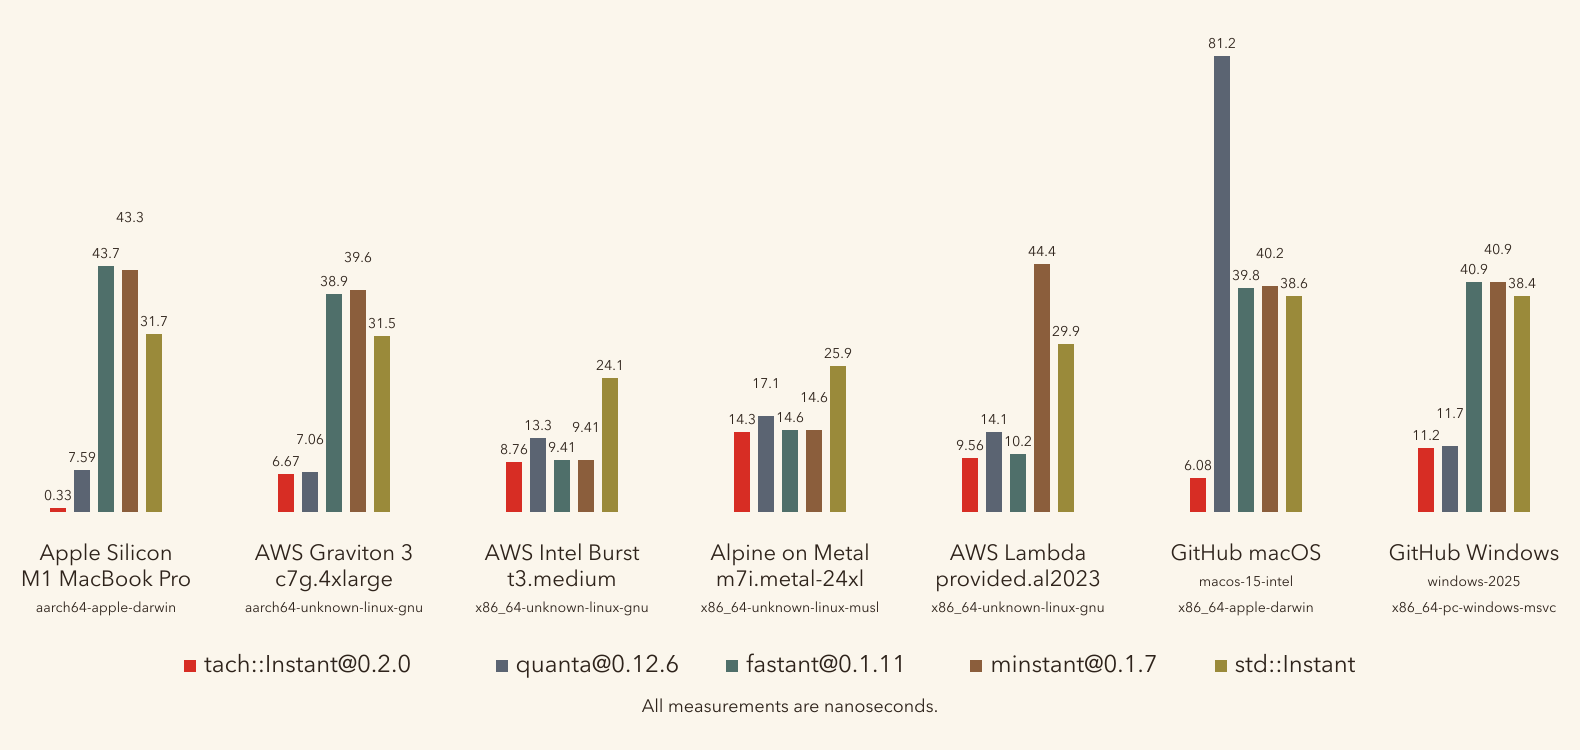
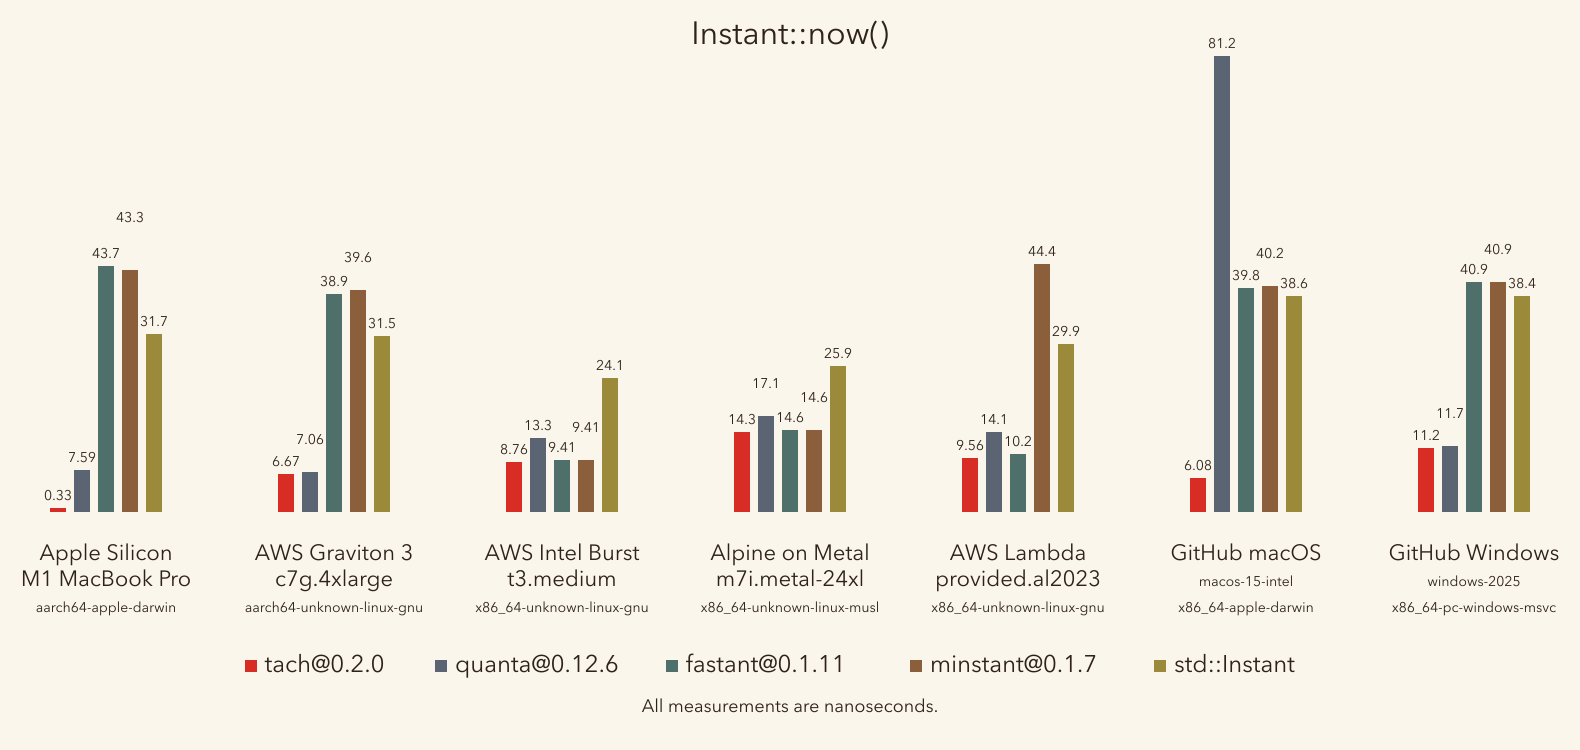
docs(benches): add Instant::now() title and rename legend entry
- Drop "tach::Instant@0.2.0" to "tach@0.2.0" in the legend; the
  chart title already specifies Instant::now() so the qualifier is
  redundant.
- Add "Instant::now()" as the chart title, rendered at y=22 in the
  existing top whitespace (no canvas height change). The tallest bar
  on GitHub macOS reaches y~28, leaving clean space for the title.

Changed region(s): [[0.2791, 0.8587, 0.8684, 0.92], [0.1241, 0.8587, 0.2481, 0.92], [0.4342, 0.0307, 0.5582, 0.0613]]

diff --git a/benches/assets/render_benchmark.py b/benches/assets/render_benchmark.py
@@ -17,12 +17,16 @@ BACKGROUND = "#FBF6EC"
 FONT = "Avenir Next, Helvetica, Arial, sans-serif"
 
 CRATES = [
-  ("tach::Instant@0.2.0", "#D72D24"),
+  ("tach@0.2.0", "#D72D24"),
   ("quanta@0.12.6", "#5B6472"),
   ("fastant@0.1.11", "#4F6F6A"),
   ("minstant@0.1.7", "#8B5E3C"),
   ("std::Instant", "#9A8A3A"),
 ]
+
+TITLE = "Instant::now()"
+TITLE_Y = 22
+TITLE_FONT_SIZE = 16
 
 GROUPS = [
   (("Apple Silicon", "M1 MacBook Pro", "aarch64-apple-darwin"),
@@ -132,6 +136,7 @@ def render_svg() -> str:
     ),
     f'<rect width="{width}" height="{HEIGHT}" fill="{BACKGROUND}"/>',
     '<g shape-rendering="crispEdges">',
+    text(width / 2, TITLE_Y, TITLE, TITLE_FONT_SIZE),
   ]
 
   max_label_lines = max(len(labels) for labels, _ in GROUPS)
